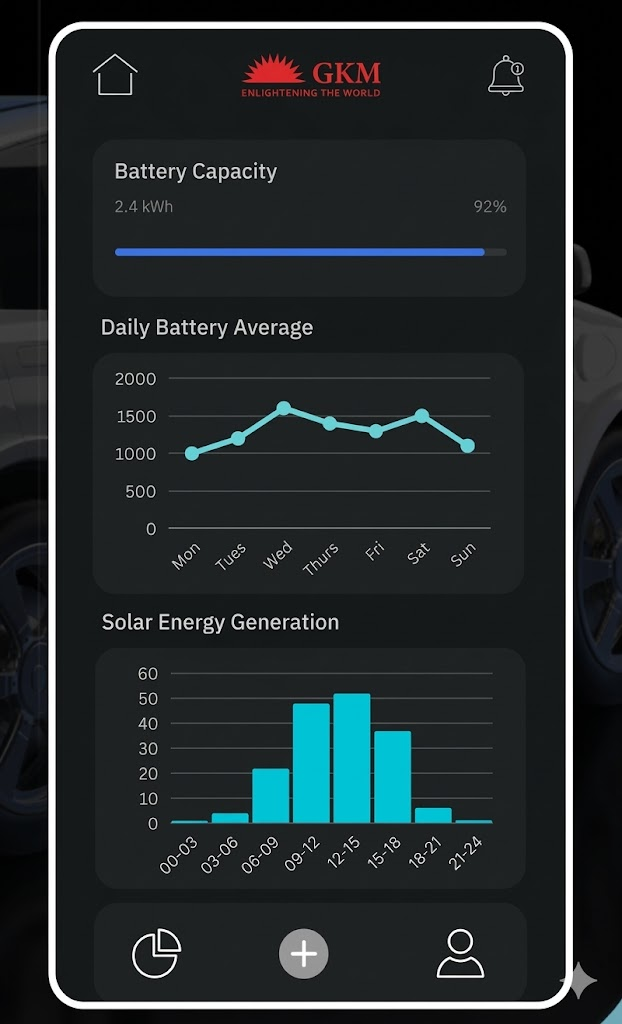
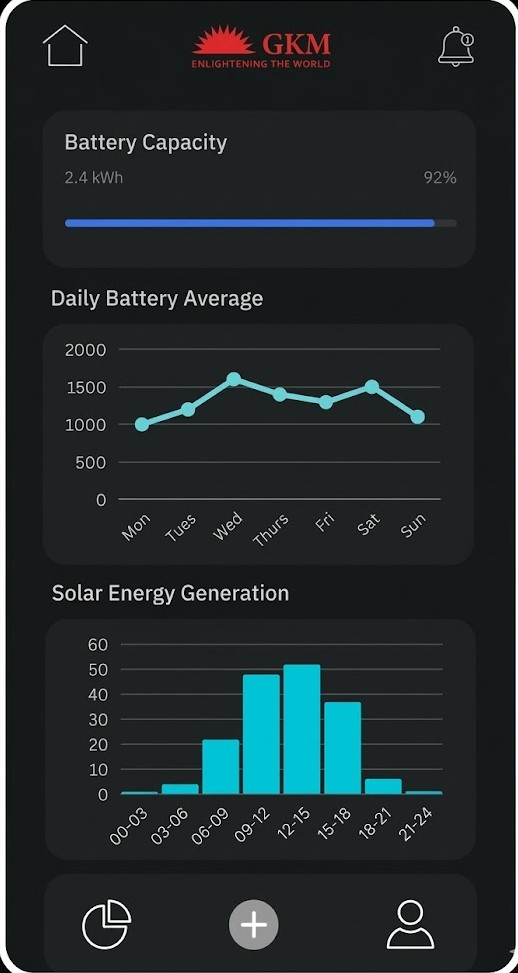
Refine homepage and about sections

Changed region(s): [[0.0, 0.0, 1.0, 1.0], [0.1544, 0.6475, 0.8649, 0.8633], [0.834, 0.1542, 0.8649, 0.185]]

diff --git a/src/pages/About/AboutPage.jsx b/src/pages/About/AboutPage.jsx
@@ -8,7 +8,8 @@ import {
 } from 'react-icons/fa';
 import leaderOne from '../../assets/images/YR.png';
 import leaderTwo from '../../assets/images/AryanSani.png';
-import leaderThree from '../../assets/images/image copy.png';
+import leaderThree from '../../assets/images/image copy.jpeg';
+import leaderFour from '../../assets/images/Saurav.jpeg';
 import topAboutImage from '../../assets/images/Section_Image.jpeg';
 import aboutImageOne from '../../assets/images/achievement_kpit_gold_award.jpg';
 import aboutImageTwo from '../../assets/images/achievement_nrl_group_photo.jpg';
@@ -28,11 +29,17 @@ const leaders = [
     image: leaderTwo,
   },
   {
-    name: 'Khushi Minda',
-    role: 'VP, Prod. Dev',
-    text: 'Specializes in Electronics, leading the design and innovation of smart energy systems, IoT devices, and advanced automation solutions for enhanced efficiency and sustainability.',
+    name: 'Dheeraj Anand',
+    role: 'Business Technology Consultant',
+    text: 'Founder at Bworth Technologies Pvt. Ltd. Director at VegaVruddhi Pvt. Ltd. Building scalable, impact-driven businesses and leading innovation-driven ventures with a focus on growth, technology, and long-term value creation.',
     image: leaderThree,
   },
+  {
+  name: 'Saurav Jain',
+  role: 'Director',
+  text: ' Business leader and entrepreneur with expertise in business strategy, sales, marketing, IT strategy, and business development. As Director at RYM Grenergy and Founder of VegaVruddhi Private Limited, he focuses on building scalable, innovation-driven ventures that create long-term impact.',
+  image: leaderFour,
+},
 ];
 
 const AboutPage = () => {
@@ -63,69 +70,72 @@ const AboutPage = () => {
               </div>
 
               <div className="lg:col-span-11">
-                {/* First Leader - Yograj Rundhanker */}
-                <motion.article
-                  className="flex flex-col items-center mb-16 max-w-2xl mx-auto"
-                  initial={{ opacity: 0, y: 25 }}
-                  whileInView={{ opacity: 1, y: 0 }}
-                  viewport={{ once: true }}
-                  transition={{ duration: 0.5 }}
-                >
-                  <div className="flex flex-row items-end gap-6 md:gap-8 mb-6 ml-[-2rem] md:ml-0">
-                    <motion.div
-                      className="relative w-48 h-56 md:w-56 md:h-64 overflow-hidden group cursor-pointer bg-zinc-200"
-                      whileHover={{ scale: 1.02 }}
-                      transition={{ duration: 0.3 }}
-                    >
-                      <img
-                        src={leaders[0].image}
-                        alt={leaders[0].name}
-                        className="w-full h-full object-cover object-bottom transition-all duration-500 group-hover:scale-105"
-                      />
-                      <div className="absolute bottom-0 left-0 right-0 h-[45%] bg-emerald-400/80 transition-all duration-500 group-hover:bg-emerald-400/90 pointer-events-none"></div>
-                    </motion.div>
-                    <div className="pb-4">
-                      <h3 className="text-2xl md:text-3xl font-medium text-white">{leaders[0].name}</h3>
-                      <div className="w-12 h-0.5 bg-emerald-400 my-2" />
-                      <p className="text-zinc-500 italic text-lg">{leaders[0].role}</p>
-                    </div>
-                  </div>
-                  <motion.div
-                    className="text-center text-sm md:text-base text-zinc-400 italic leading-relaxed max-w-lg px-4"
-                    initial={{ opacity: 0 }}
-                    whileInView={{ opacity: 1 }}
-                    viewport={{ once: true }}
-                    transition={{ delay: 0.4 }}
-                  >
-                    {leaders[0].text}
-                  </motion.div>
-                </motion.article>
-
-                {/* Other Two Leaders - Side by Side */}
-                <div className="grid grid-cols-1 md:grid-cols-2 gap-x-8 gap-y-12 max-w-4xl mx-auto">
-                  {leaders.slice(1).map((leader, index) => (
+                <div className="grid grid-cols-1 md:grid-cols-2 gap-8 lg:gap-10 max-w-6xl mx-auto">
+                  {leaders.slice(0, 2).map((leader, index) => (
                     <motion.article
                       key={leader.name}
                       className="flex flex-col"
                       initial={{ opacity: 0, y: 25 }}
                       whileInView={{ opacity: 1, y: 0 }}
                       viewport={{ once: true }}
-                      transition={{ delay: (index + 1) * 0.1, duration: 0.5 }}
+                      transition={{ delay: index * 0.1, duration: 0.5 }}
                     >
-                      <div className="flex flex-row items-end gap-4 md:gap-5 mb-4">
+                      <div className="flex flex-row items-start gap-4 md:gap-5 mb-4">
                         <motion.div
-                          className="relative w-36 h-48 md:w-44 md:h-56 overflow-hidden group cursor-pointer bg-zinc-200 shrink-0"
-                          whileHover={{ scale: 1.02 }}
+                          className="relative w-40 h-56 md:w-52 md:h-64 overflow-hidden group cursor-pointer bg-zinc-900 shrink-0 rounded-lg shadow-lg shadow-emerald-500/10 border border-emerald-500/20"
+                          whileHover={{ scale: 1.03, y: -4 }}
                           transition={{ duration: 0.3 }}
                         >
                           <img
                             src={leader.image}
                             alt={leader.name}
-                            className="w-full h-full object-cover object-bottom transition-all duration-500 group-hover:scale-105"
+                            className="w-full h-full object-cover object-top transition-all duration-500 group-hover:scale-110 group-hover:brightness-110"
                           />
-                          <div className="absolute bottom-0 left-0 right-0 h-[45%] bg-emerald-400/80 transition-all duration-500 group-hover:bg-emerald-400/90 pointer-events-none"></div>
+                          <div className="absolute bottom-0 left-0 right-0 h-[50%] bg-gradient-to-t from-emerald-500/90 via-emerald-500/50 to-transparent transition-all duration-500 group-hover:from-emerald-400/95 pointer-events-none"></div>
                         </motion.div>
-                        <div className="pb-2">
+                        <div className="pt-2">
+                          <h3 className="text-xl md:text-2xl font-medium text-white">{leader.name}</h3>
+                          <div className="w-10 h-0.5 bg-emerald-400 my-2" />
+                          <p className="text-zinc-500 italic text-md">{leader.role}</p>
+                        </div>
+                      </div>
+                      <motion.div
+                        className="text-xs md:text-sm text-zinc-400 italic leading-relaxed"
+                        initial={{ opacity: 0 }}
+                        whileInView={{ opacity: 1 }}
+                        viewport={{ once: true }}
+                        transition={{ delay: 0.3 }}
+                      >
+                        {leader.text}
+                      </motion.div>
+                    </motion.article>
+                  ))}
+                </div>
+
+                <div className="grid grid-cols-1 md:grid-cols-2 gap-8 lg:gap-10 max-w-6xl mx-auto mt-12">
+                  {leaders.slice(2).map((leader, index) => (
+                    <motion.article
+                      key={leader.name}
+                      className="flex flex-col"
+                      initial={{ opacity: 0, y: 25 }}
+                      whileInView={{ opacity: 1, y: 0 }}
+                      viewport={{ once: true }}
+                      transition={{ delay: (index + 2) * 0.1, duration: 0.5 }}
+                    >
+                      <div className="flex flex-row items-start gap-4 md:gap-5 mb-4">
+                        <motion.div
+                          className="relative w-40 h-56 md:w-52 md:h-64 overflow-hidden group cursor-pointer bg-zinc-900 shrink-0 rounded-lg shadow-lg shadow-emerald-500/10 border border-emerald-500/20"
+                          whileHover={{ scale: 1.03, y: -4 }}
+                          transition={{ duration: 0.3 }}
+                        >
+                          <img
+                            src={leader.image}
+                            alt={leader.name}
+                            className="w-full h-full object-cover object-top transition-all duration-500 group-hover:scale-110 group-hover:brightness-110"
+                          />
+                          <div className="absolute bottom-0 left-0 right-0 h-[50%] bg-gradient-to-t from-emerald-500/90 via-emerald-500/50 to-transparent transition-all duration-500 group-hover:from-emerald-400/95 pointer-events-none"></div>
+                        </motion.div>
+                        <div className="pt-2">
                           <h3 className="text-xl md:text-2xl font-medium text-white">{leader.name}</h3>
                           <div className="w-10 h-0.5 bg-emerald-400 my-2" />
                           <p className="text-zinc-500 italic text-md">{leader.role}</p>
@@ -155,7 +165,7 @@ const AboutPage = () => {
             <div>
               <h2 className="text-4xl md:text-5xl font-semibold mb-8">We are RYM Grenergy</h2>
               <p className="text-zinc-300 max-w-2xl leading-relaxed mb-4">
-                In 2022, we announced a bold and simple plan: to enable the future of energy by developing the world&apos;s greenest battery cell.
+                In 2023, we announced a bold and simple plan: to enable the future of energy by developing the world&apos;s greenest battery cell.
               </p>
               <p className="text-zinc-300 max-w-2xl leading-relaxed text-sm">
                 RYM Grenergy is a deep-tech company focused on building sustainable energy solutions and intelligent systems. We are committed to driving innovation in energy and advanced technologies.

diff --git a/src/sections/About.jsx b/src/sections/About.jsx
@@ -36,10 +36,9 @@ const About = () => {
                             transition={{ duration: 0.8 }}
                         />
                         <span className="text-emerald-400 uppercase tracking-[0.3em] text-xs sm:text-sm font-bold">
-                            Engineering the Future
+                            Building the Future
                         </span>
                     </motion.div>
-
                     <motion.h2
                         initial={{ opacity: 0, y: 20 }}
                         whileInView={{ opacity: 1, y: 0 }}
@@ -57,7 +56,7 @@ const About = () => {
                         transition={{ delay: 0.2, duration: 0.8 }}
                         className="text-[clamp(0.95rem,3vw,1.1rem)] lg:text-[clamp(1.1rem,2vw,1.25rem)] text-zinc-400 font-light leading-relaxed max-w-4xl"
                     >
-                        Leading the future of sustainable energy solutions through architectural innovation and intelligent systems.
+                        We create practical, future-ready solutions that help businesses scale, adapt, and deliver long-term impact.
                     </motion.p>
                 </div>
 
@@ -82,41 +81,41 @@ const About = () => {
                             }}
                             transition={{ duration: 3, repeat: Infinity }}
                         />
-                        <div className="relative rounded-[2.5rem] overflow-hidden border border-emerald-500/20 lg:border-white/10 ring-1 ring-emerald-500/10 shadow-2xl aspect-[4/3] md:aspect-[3/2]">
+                        <div className="relative rounded-[2rem] md:rounded-[2.5rem] overflow-hidden border border-emerald-500/20 lg:border-white/10 ring-1 ring-emerald-500/10 shadow-2xl aspect-[4/3] md:aspect-[3/2]">
                             <img
                                 src={aboutImage}
                                 alt="Tactical Energy Operations"
-                                className="w-full h-full object-cover group-hover:grayscale-0 transition-all duration-700"
+                                className="w-full h-full object-cover object-center scale-[1.03] md:scale-100 group-hover:grayscale-0 transition-all duration-700"
                             />
                             <div className="absolute inset-0 bg-linear-to-t from-black/70 via-black/30 to-transparent" />
 
                             {/* Tactical Energy Operations Label */}
                             <motion.div
-                                className="absolute top-6 left-6 right-6"
+                                className="absolute top-4 left-4 right-4 md:top-6 md:left-6 md:right-6"
                                 initial={{ opacity: 0, y: -10 }}
                                 whileInView={{ opacity: 1, y: 0 }}
                                 viewport={{ once: true }}
                                 transition={{ delay: 0.3 }}
                             >
-                                <div className="bg-black/70 backdrop-blur-xl border border-emerald-500/40 px-4 py-3 rounded-xl hover:border-emerald-500/80 transition-all duration-300">
-                                    <span className="text-emerald-300 font-bold text-sm tracking-widest uppercase">
-                                        ◆Tactical Energy Operations
+                                <div className="bg-black/70 backdrop-blur-xl border border-emerald-500/40 px-3 py-2 md:px-4 md:py-3 rounded-xl hover:border-emerald-500/80 transition-all duration-300">
+                                    <span className="text-emerald-300 font-bold text-[10px] md:text-sm tracking-widest uppercase">
+                                        ◆Strategic Impact Operations
                                     </span>
                                 </div>
                             </motion.div>
 
                             {/* Floating Stat Overlay */}
                             <motion.div
-                                className="absolute bottom-4 md:bottom-6 left-4 md:left-6 right-4 md:right-6 grid grid-cols-3 gap-3 md:gap-4"
+                                className="absolute bottom-3 md:bottom-6 left-3 md:left-6 right-3 md:right-6 grid grid-cols-1 sm:grid-cols-3 gap-2 md:gap-4"
                                 initial={{ opacity: 0, y: 20 }}
                                 whileInView={{ opacity: 1, y: 0 }}
                                 viewport={{ once: true }}
                                 transition={{ delay: 0.4 }}
                             >
                                 {[
-                                    { label: 'Innovation Focus', value: 'Artificial Intelligence', icon: <FaCogs /> },
-                                    { label: 'Global Standard', value: 'Internet of things', icon: <FaGlobeEurope /> },
-                                    { label: 'Future-Proof', value: 'Deep Learning', icon: <FaProjectDiagram /> }
+                                    { label: 'Scalable Systems', value: 'Enterprise Ready', icon: <FaCogs /> },
+                                    { label: 'Global Standard', value: 'Connected Operations', icon: <FaGlobeEurope /> },
+                                    { label: 'Future-Proof', value: 'Business Growth', icon: <FaProjectDiagram /> }
                                 ].map((stat, i) => (
                                     <motion.div
                                         key={i}
@@ -125,6 +124,7 @@ const About = () => {
                                     >
                                         <div className="text-emerald-400 text-base md:text-lg mb-2 flex justify-center group-hover/stat:scale-110 transition-transform duration-300">{stat.icon}</div>
                                         <div className="text-[10px] md:text-xs text-zinc-300 uppercase tracking-wider leading-tight font-medium">{stat.value}</div>
+                                        <div className="mt-1 text-[9px] md:text-[10px] text-zinc-500 uppercase tracking-[0.16em] text-center">{stat.label}</div>
                                     </motion.div>
                                 ))}
                             </motion.div>
@@ -139,17 +139,6 @@ const About = () => {
                         transition={{ duration: 0.8 }}
                         className="order-1 lg:order-2"
                     >
-                        <motion.span
-                            className="text-emerald-400 font-mono text-xs md:text-sm mb-6 md:mb-8 block tracking-widest uppercase font-bold flex items-center gap-2"
-                            initial={{ opacity: 0 }}
-                            whileInView={{ opacity: 1 }}
-                            viewport={{ once: true }}
-                            transition={{ delay: 0.2 }}
-                        >
-                            <span className="w-2 h-2 bg-emerald-400 rounded-full animate-pulse" />
-                            RYM Grenergy Operations
-                        </motion.span>
-
                         <h3 className="text-[clamp(1.6rem,5vw,2.5rem)] lg:text-[clamp(2.5rem,4vw,4rem)] font-bold text-white mb-8 md:mb-10 leading-[1.2] tracking-tight">
                             <motion.span
                                 initial={{ opacity: 0, y: 20 }}
@@ -167,7 +156,7 @@ const About = () => {
                                 transition={{ delay: 0.3 }}
                                 className="text-transparent bg-clip-text bg-gradient-to-r from-emerald-400 to-cyan-400"
                             >
-                                Intelligent Systems with AI & IoT
+                                Scalable Business Solutions
                             </motion.span>
                         </h3>
                     </motion.div>
@@ -183,19 +172,19 @@ const About = () => {
                         transition={{ delay: 0.4 }}
                     >
                         <p className="text-zinc-300">
-                            In 2022, we announced a bold and simple plan: to enable the future of energy by developing the <span className="text-emerald-400 font-semibold">world's greenest battery cell</span>.
+                            We build solutions that help businesses move faster, operate smarter, and create measurable long-term value.
                         </p>
                         <p>
-                            RYM Grenergy is a deep-tech company focused on building <span className="text-white font-medium">sustainable energy solutions</span> and intelligent systems. We are committed to driving innovation in energy and advanced technologies. We specialize in AI-driven solutions, smart automation platforms, IoT-enabled hardware, and embedded systems.
+                            RYM Grenergy is focused on practical innovation across hardware, software, and automation. We work on connected platforms, process improvement, and reliable systems built for real-world use.
                         </p>
                         <p>
-                            By combining <span className="text-emerald-300 font-semibold">artificial intelligence, edge computing, and smart hardware design</span>, we create scalable solutions that solve real-world challenges across energy, infrastructure, mobility, and industrial domains. Our goal is to develop efficient, resilient, and sustainable technologies that empower industries and contribute to a smarter, greener future.
+                            By combining strong design, engineering discipline, and scalable thinking, we create solutions that support growth across energy, infrastructure, mobility, and industrial domains.
                         </p>
                     </motion.div>
 
                     <motion.button
                         onClick={() => navigate('/contact')}
-                        className="group relative px-8 md:px-10 py-3.5 md:py-4 rounded-full border border-emerald-500/50 bg-gradient-to-r from-emerald-500/10 to-teal-500/5 text-emerald-300 font-bold hover:text-white overflow-hidden transition-all duration-300 flex items-center gap-3 active:scale-95 text-sm md:text-base w-fit"
+                        className="group relative px-8 md:px-10 py-3.5 md:py-4 rounded-full border border-emerald-500/50 bg-gradient-to-r from-emerald-500/10 to-teal-500/5 text-emerald-300 font-bold hover:text-white overflow-hidden transition-all duration-300 flex items-center gap-3 active:scale-95 text-sm md:text-base w-full sm:w-fit justify-center sm:justify-start"
                         whileHover={{ scale: 1.05 }}
                         whileTap={{ scale: 0.95 }}
                         initial={{ opacity: 0, y: 20 }}

diff --git a/src/sections/Projects.jsx b/src/sections/Projects.jsx
@@ -59,7 +59,7 @@ const FeaturedCard = ({ project }) => {
 
     return (
         <motion.div
-            className="flex flex-col md:flex-row bg-white/5 backdrop-blur-[10px] border border-white/10 rounded-[32px] p-[32px] md:p-[48px] gap-[30px] md:gap-[40px] items-center text-center md:text-left relative overflow-hidden transition-all duration-500 hover:-translate-y-2 hover:border-[#00ff88]/30 hover:shadow-[0_20px_40px_rgba(0,255,136,0.1)] group cursor-default"
+            className="flex flex-col md:flex-row bg-white/5 backdrop-blur-[10px] border border-white/10 rounded-[32px] pt-[78px] md:pt-[32px] p-[24px] md:p-[48px] gap-[24px] md:gap-[40px] items-center text-center md:text-left relative overflow-hidden transition-all duration-500 hover:-translate-y-2 hover:border-[#00ff88]/30 hover:shadow-[0_20px_40px_rgba(0,255,136,0.1)] group cursor-default"
             ref={cardRef}
             onMouseMove={handleMouseMove}
             initial={{ opacity: 0, y: 40 }}
@@ -68,14 +68,14 @@ const FeaturedCard = ({ project }) => {
             transition={{ duration: 0.8, ease: "easeOut" }}
         >
             <div className="absolute inset-0 bg-[radial-gradient(1200px_circle_at_var(--mouse-x,50%)_var(--mouse-y,50%),rgba(0,255,136,0.08),transparent_40%)] z-0 opacity-0 group-hover:opacity-100 transition-opacity duration-500"></div>
-            <div className="absolute top-[24px] right-1/2 translate-x-1/2 md:translate-x-0 md:top-[32px] md:right-[32px] bg-gradient-to-br from-[#00ff88] to-[#00ffee] text-black px-4 py-1.5 rounded-full text-[0.8rem] font-[700] uppercase tracking-[1px] z-10">Flagship Innovation</div>
-            <div className="w-[100px] h-[100px] bg-[#00ff88]/10 border border-[#00ff88]/30 rounded-[24px] flex flex-shrink-0 items-center justify-center text-[#00ff88] text-[3rem] z-10 shadow-[0_0_20px_rgba(0,255,136,0.2)]">
+            <div className="absolute top-4 left-1/2 -translate-x-1/2 md:left-auto md:translate-x-0 md:top-[32px] md:right-[32px] bg-gradient-to-br from-[#00ff88] to-[#00ffee] text-black px-4 py-1.5 rounded-full text-[0.8rem] font-[700] uppercase tracking-[1px] z-10 whitespace-nowrap text-center">AI Flagship Innovation</div>
+            <div className="w-[84px] h-[84px] md:w-[100px] md:h-[100px] bg-[#00ff88]/10 border border-[#00ff88]/30 rounded-[24px] flex flex-shrink-0 items-center justify-center text-[#00ff88] text-[2.4rem] md:text-[3rem] z-10 shadow-[0_0_20px_rgba(0,255,136,0.2)] mx-auto md:mx-0 mt-2 md:mt-0">
                 <FaRocket />
             </div>
-            <div className="flex-1 z-10">
-                <h3 className="text-[clamp(1.5rem,6vw,2.2rem)] lg:text-[clamp(2.2rem,4vw,3rem)] font-[800] mb-3 text-white">{project.name}</h3>
-                <p className="text-[1.25rem] text-[#a0a0a0] leading-[1.6]">{project.client}</p>
-                <div className="mt-5 flex flex-wrap justify-center md:justify-start gap-[15px]">
+            <div className="flex-1 z-10 w-full">
+                <h3 className="text-[clamp(1.35rem,5vw,2.2rem)] lg:text-[clamp(2.2rem,4vw,3rem)] font-[800] mb-3 text-white leading-tight">{project.name}</h3>
+                <p className="text-[0.98rem] md:text-[1.25rem] text-[#a0a0a0] leading-[1.6]">{project.client}</p>
+                <div className="mt-5 flex flex-col sm:flex-row flex-wrap justify-center md:justify-start gap-3 md:gap-[15px]">
                     <span className="text-[0.9rem] text-[#00ff88] flex items-center gap-[5px]">
                         <FaCheckCircle size={12} /> Active Deployment
                     </span>

diff --git a/src/pages/Products/ProductsPage.jsx b/src/pages/Products/ProductsPage.jsx
@@ -71,11 +71,19 @@ const ProductCard = ({ product, onOpen, index }) => {
       <div className="absolute top-0 left-0 w-full h-[2px] bg-gradient-to-r from-transparent via-emerald-500/60 to-transparent opacity-0 group-hover:opacity-100 transition-opacity duration-500" />
 
       {/* image */}
-      <div className="relative h-[200px] md:h-[220px] w-full overflow-hidden bg-[#050505] flex items-center justify-center p-8 md:p-10">
+      <div
+        className="relative h-[200px] md:h-[220px] w-full overflow-hidden bg-[#050505]"
+        style={{
+          backgroundImage: `url(${product.image})`,
+          backgroundSize: 'cover',
+          backgroundPosition: 'center',
+        }}
+      >
+        <div className="absolute inset-0 bg-[#050505]/55 backdrop-blur-[18px]" />
         <img
           src={product.image}
           alt={product.name}
-          className="w-full h-full object-contain transition-transform duration-700 group-hover:scale-110 group-hover:brightness-110"
+          className="relative z-10 w-full h-full object-contain object-center transition-transform duration-700 group-hover:scale-110 group-hover:brightness-110"
         />
         {/* overlay gradient */}
         <div className="absolute inset-0 bg-gradient-to-t from-[#0a0a0a] via-transparent to-transparent opacity-80 pointer-events-none" />

diff --git a/src/sections/Hero.jsx b/src/sections/Hero.jsx
@@ -133,13 +133,13 @@ const Hero = () => {
                             initial={{ opacity: 0, y: 20 }}
                             animate={{ opacity: 1, y: 0 }}
                             transition={{ duration: 0.8, delay: 0.3, ease: [0.16, 1, 0.3, 1] }}
-                            className="flex flex-col sm:flex-row gap-4 sm:gap-8 mt-10 w-full"
+                            className="flex flex-col sm:flex-row gap-4 sm:gap-8 mt-10 w-full items-center sm:items-start"
                         >
                             <button
                                 type="button"
                                 onClick={handleContact}
                                 onTouchEnd={handleContact}
-                                className="group flex w-full max-w-[280px] sm:w-[170px] sm:max-w-[220px] h-[55px] bg-zinc-900 rounded-[40px] shadow-[0_5px_15px_rgba(16,185,129,0.2)] justify-between items-center border border-zinc-800 hover:border-emerald-500/50 hover:shadow-[0_10px_25px_rgba(16,185,129,0.4)] transition-all duration-300 touch-manipulation"
+                                className="group flex w-full max-w-[280px] sm:w-[170px] sm:max-w-[220px] h-[55px] bg-zinc-900 rounded-[40px] shadow-[0_5px_15px_rgba(16,185,129,0.2)] justify-between items-center border border-zinc-800 hover:border-emerald-500/50 hover:shadow-[0_10px_25px_rgba(16,185,129,0.4)] transition-all duration-300 touch-manipulation mx-auto sm:mx-0"
                             >
                                 <span className="flex-1 h-full flex items-center justify-center text-white text-[1rem] font-semibold tracking-[1.2px] uppercase">
                                     Let's go!
@@ -187,7 +187,7 @@ const Hero = () => {
 
                                 <button
                                     type="button"
-                                    className="btn-2 touch-manipulation"
+                                    className="btn-2 touch-manipulation mx-auto sm:mx-0"
                                     onClick={handleExplore}
                                     onTouchEnd={handleExplore}
                                     aria-label="Explore Solutions"

diff --git a/src/data/data.js b/src/data/data.js
@@ -254,7 +254,7 @@ export const testimonialsData = [
   }
 ];
 export const projectsData = [
-  { id: 'featured', name: 'ULTRON', client: 'Deployed with GKM Energy', featured: true },
+  { id: 'featured', name: 'AI RECOGNITION SYSTEMS', client: 'Automated Attendance and Monitoring', featured: true },
   { id: '01', name: 'Weighbridge AI', client: 'DMG, Rajasthan' },
   { id: '02', name: 'DamChat', client: 'ICED, IIT Roorkee' },
   { id: '03', name: 'BULK ATTENDANCE SYSTEM', client: 'GD Goenka University' },

diff --git a/src/components/Navbar.jsx b/src/components/Navbar.jsx
@@ -26,6 +26,7 @@ const Navbar = () => {
 
   const navItems = [
     { name: 'Home', to: '/' },
+    { name: 'About', to: '/about' },
     { name: 'Products', to: '/products' },
     { name: 'Projects', to: '/projects' },
     { name: 'Testimonials', to: '/testimonials' },